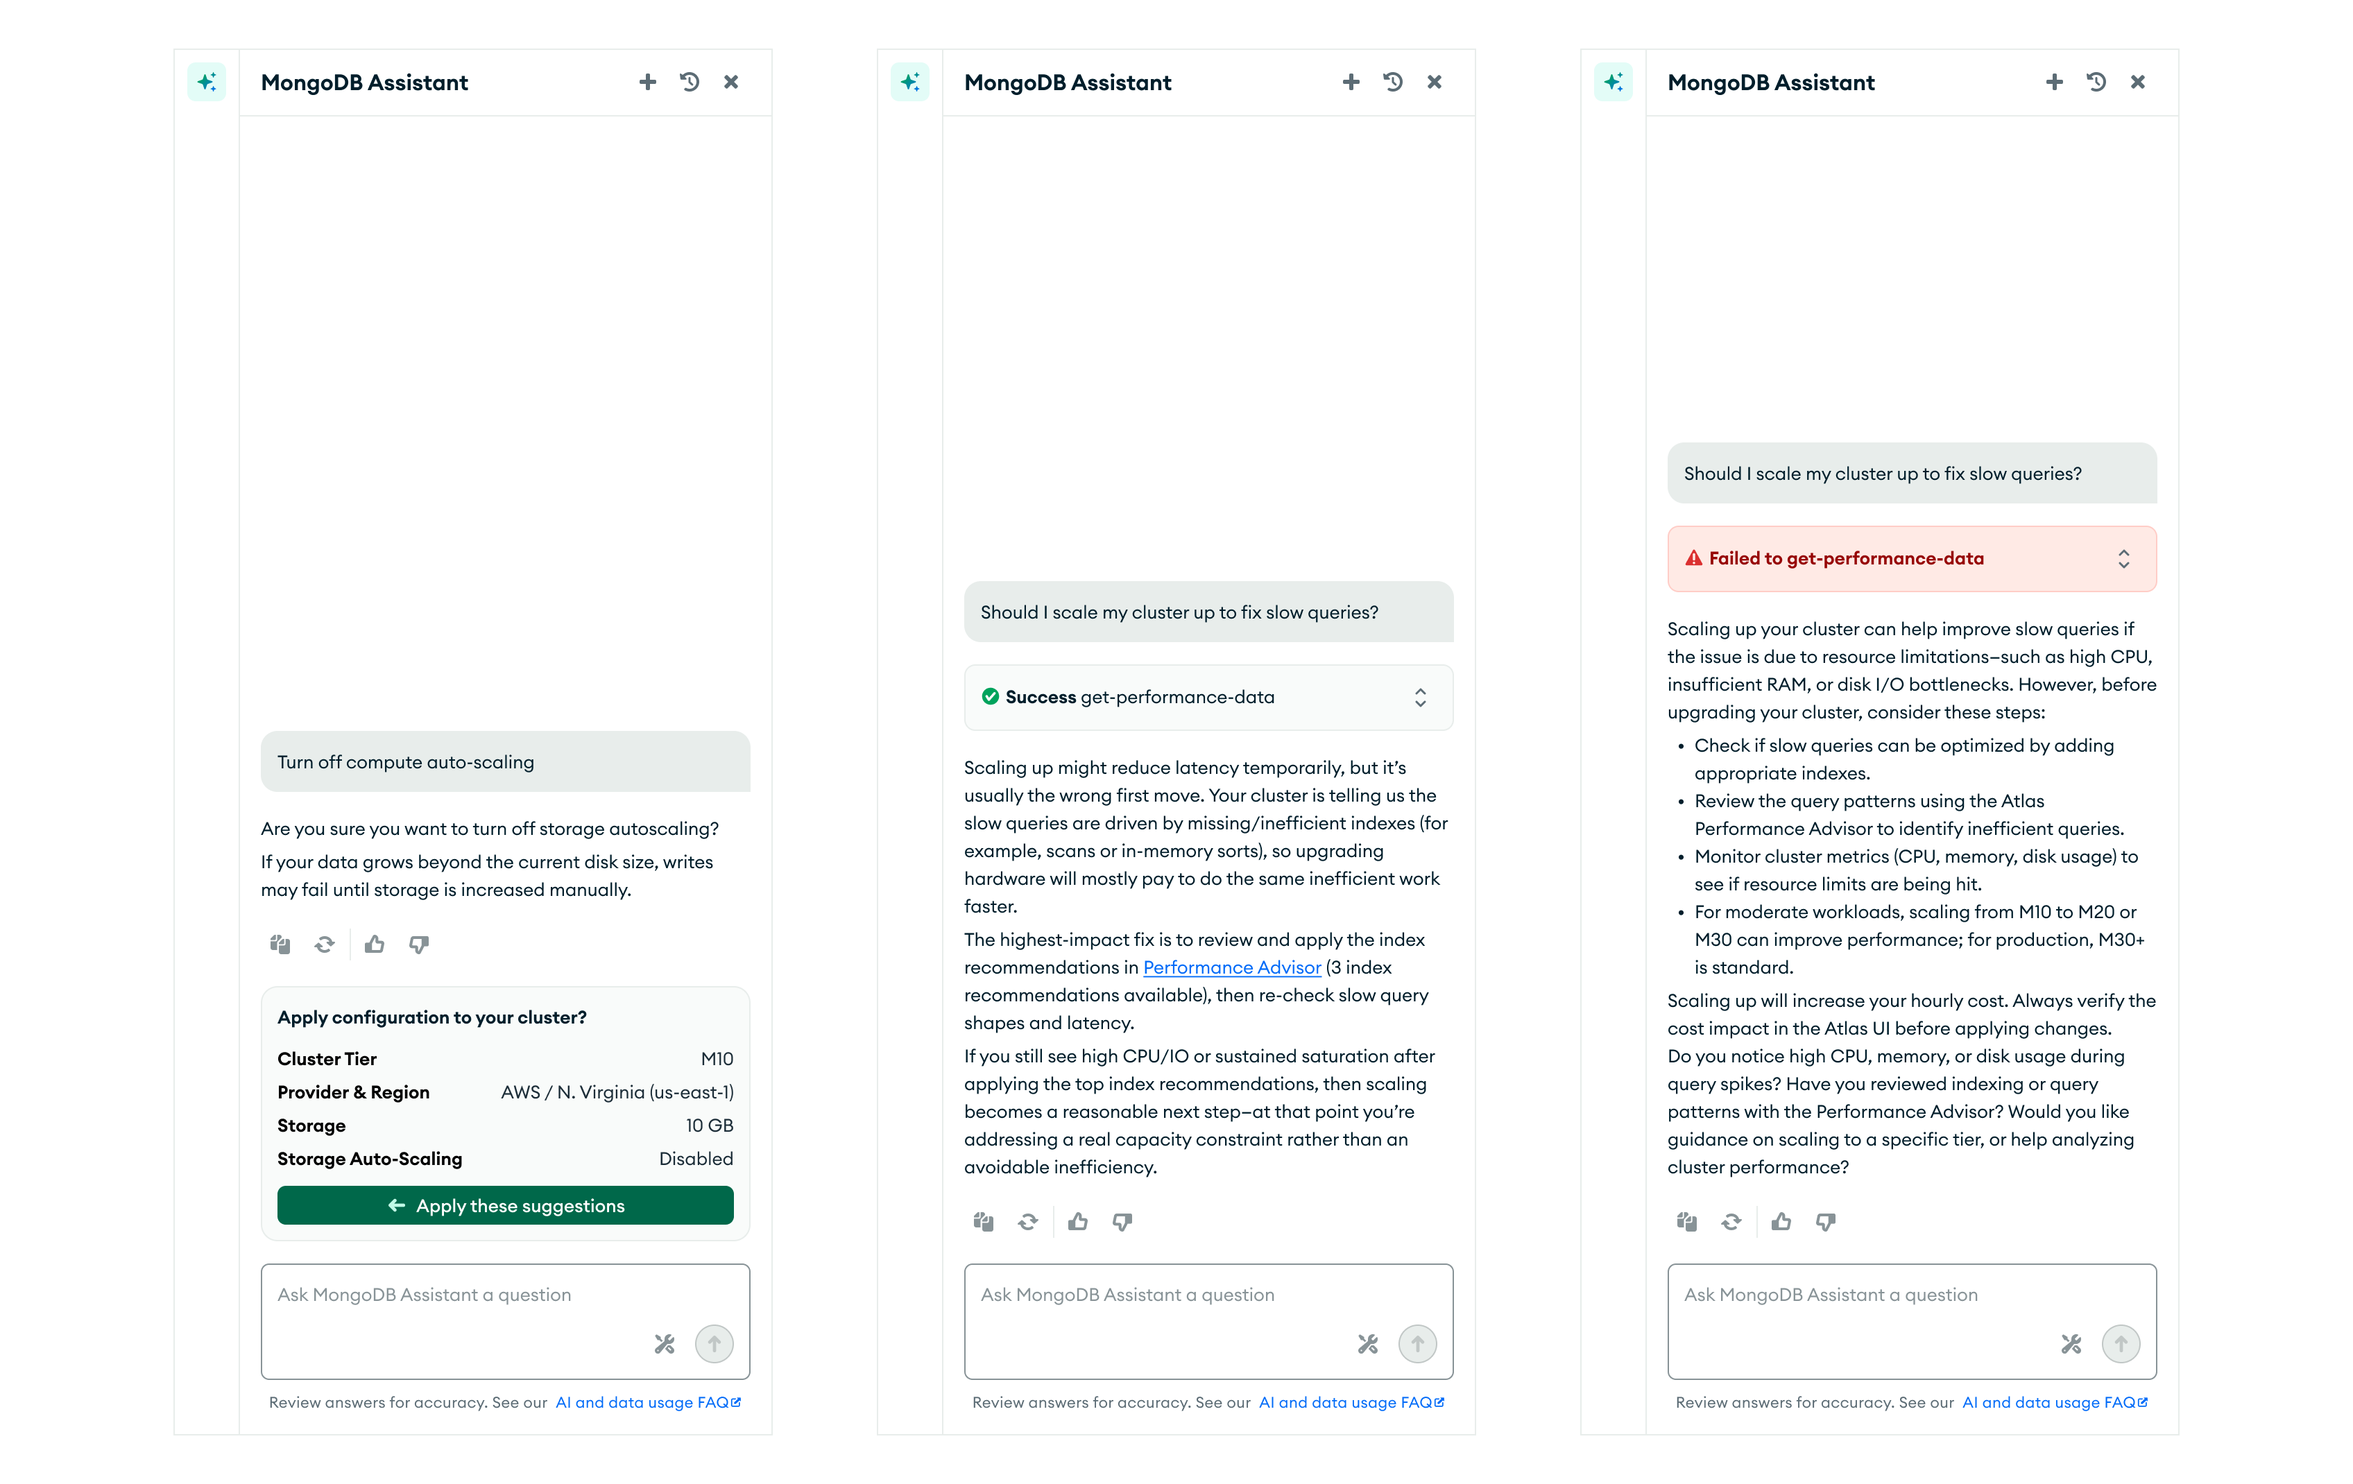
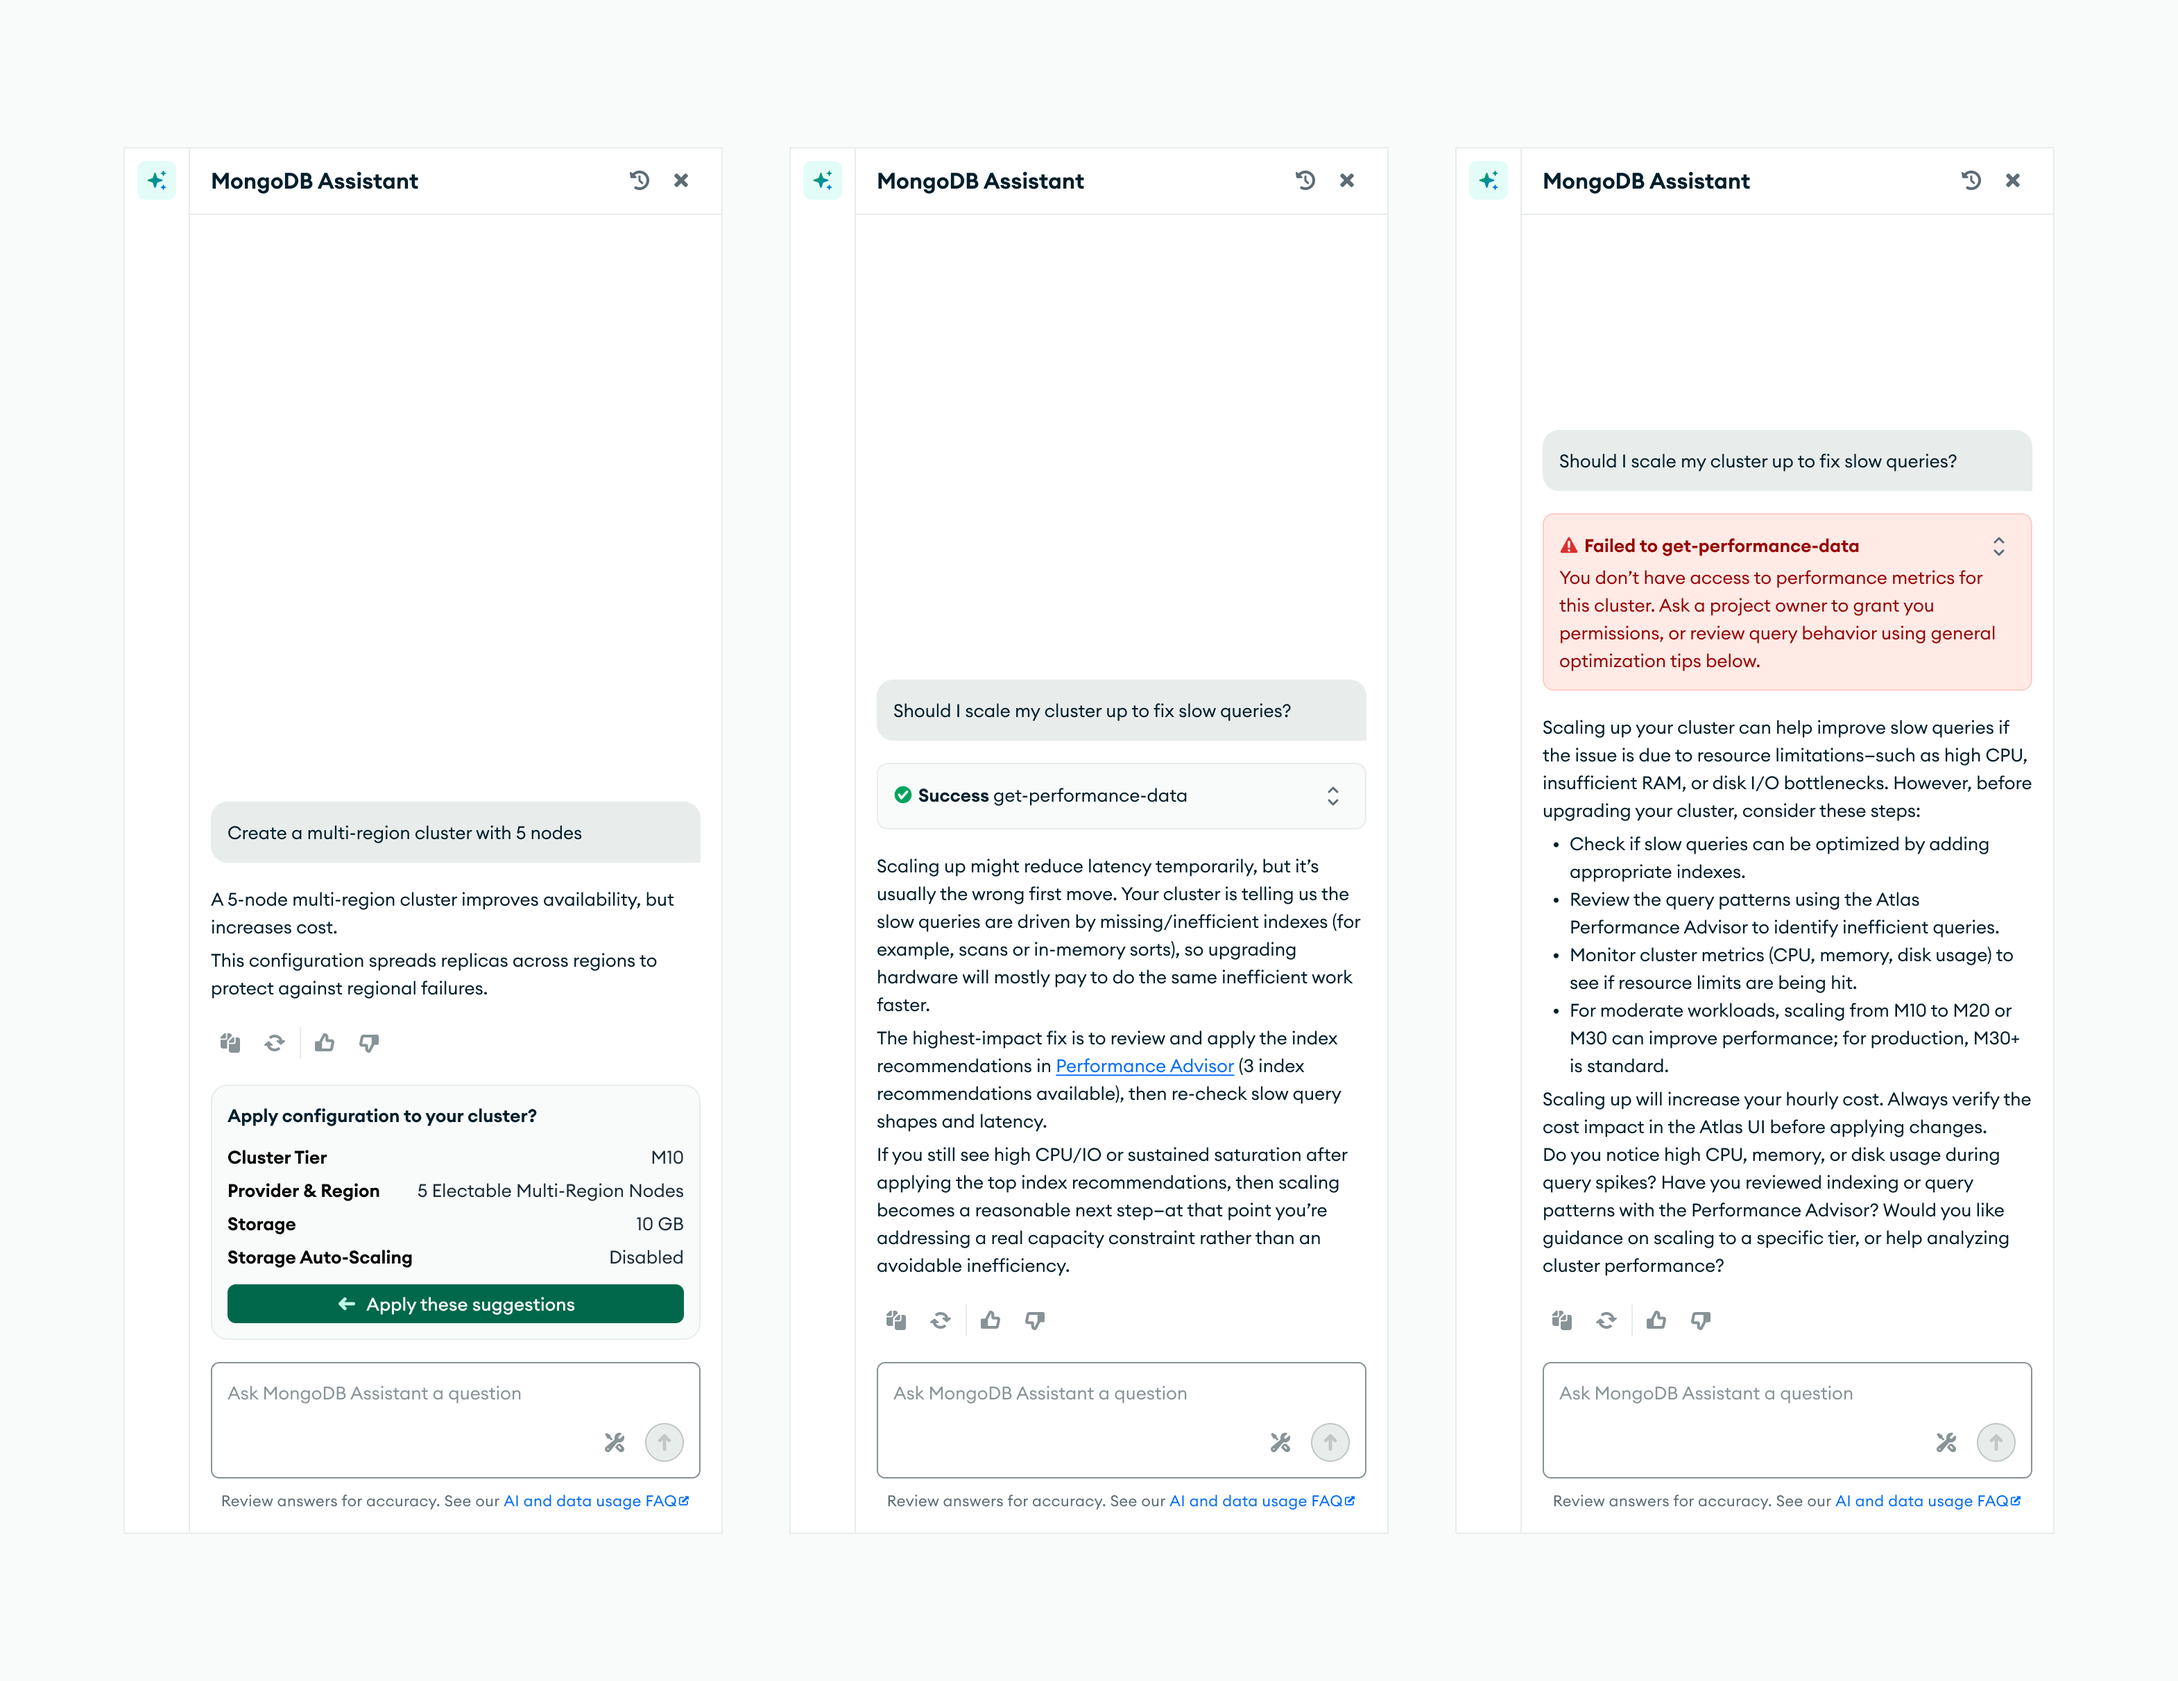
image upates, detail updates

diff --git a/ahero.html b/ahero.html
@@ -141,10 +141,13 @@
             Ahero addresses distraction by actively blocking selected websites
             and apps during focus time, based on user-defined block lists,
             schedules, or time limits. Users can schedule focus sessions and
-            organize the work they want to complete during that time. The
-            product is built around two core ideas: removing distractions at the
-            moment they matter most, and helping users direct their attention
-            toward meaningful work once those distractions are blocked.
+            organize the work they want to complete during that time.
+          </p>
+          <p>
+            The product is built around two core ideas: removing distractions at
+            the moment they matter most, and helping users direct their
+            attention toward meaningful work once those distractions are
+            blocked.
           </p>
           <div class="under_images">
             <img
@@ -176,6 +179,62 @@
               on other settings.
             </p>
           </div>
+
+          <h3>Design Challenges</h3>
+          <h4>Keeping users in focus mode</h4>
+          <p>
+            A focus session can be ended too easily, which makes it easy for
+            users to get distracted on their devices.
+          </p>
+          <p>
+            To solve this, I added an option that prevents a session from ending
+            early. The active session also syncs to the phone for a consistent
+            cross-device focus experience.
+          </p>
+          <div class="under_images">
+            <img
+              src="images/ahero/EndEarly.png"
+              class="img-responsive ahero-solution-image"
+              alt="Ahero end early setting"
+            />
+          </div>
+
+          <h4>Blocking is not one-size-fits-all</h4>
+          <p>
+            Blocking preferences are not the same for every user. For example,
+            some users want to block all of Reddit, but still allow one specific
+            subreddit they rely on for work.
+          </p>
+          <p>
+            To solve this, the block list supports an allow list. Users can
+            block an entire site and whitelist specific URLs, or block only
+            specific subdomains based on their workflow.
+          </p>
+          <div class="under_images">
+            <img
+              src="images/ahero/allowlist.png"
+              class="img-responsive ahero-solution-image"
+              alt="Ahero allow list settings"
+            />
+          </div>
+
+          <h4>Blocking settings can be too easy to disable</h4>
+          <p>
+            Another challenge is that users can quickly turn off blocking
+            settings in moments of low self-control.
+          </p>
+          <p>
+            To solve this, I added settings locks. Users can lock settings by
+            sending a friend a password, or require typing a long unlock code
+            before changes can be made.
+          </p>
+          <div class="under_images">
+            <img
+              src="images/ahero/password.png"
+              class="img-responsive ahero-solution-image"
+              alt="Ahero settings lock password flow"
+            />
+          </div>
         </div>
       </div>
 
@@ -190,17 +249,23 @@
           <p>Some of my favorite quotes from real users:</p>
           <ul id="takeaway">
             <li class="lists">
-              <i>"This app has helped me save countless hours and I am richer
-              for it."</i>
+              <i
+                >"This app has helped me save countless hours and I am richer
+                for it."</i
+              >
             </li>
             <li class="lists">
-              <i>"Thank you for all that you have done, you have tremendously
-              changed my life."</i>
+              <i
+                >"Thank you for all that you have done, you have tremendously
+                changed my life."</i
+              >
             </li>
             <li class="lists">
-              <i>"The internet is full of distractions that keep drawing you
-              back in for more. With Ahero, the effect has been
-              monumental."</i>
+              <i
+                >"The internet is full of distractions that keep drawing you
+                back in for more. With Ahero, the effect has been
+                monumental."</i
+              >
             </li>
           </ul>
         </div>

diff --git a/other-projects.html b/other-projects.html
@@ -126,9 +126,42 @@
           </p>
           <div class="under_images">
             <img
+              src="images/mongo/TipsAHP.png"
+              class="img-responsive mongo-modal-trigger"
+              alt="Tips AHP project"
+            />
+            <p class="image-label" style="margin-top: 24px">
+              Different explorations and iterations
+            </p>
+            <img
               src="images/mongo/Tips.png"
               class="img-responsive mongo-modal-trigger"
               alt="Tips project"
+            />
+          </div>
+
+          <h3>MongoDB AI Assistant</h3>
+          <p>
+            An ongoing project focused on expanding the MongoDB AI Assistant to
+            help users create clusters and receive more contextual guidance,
+            including performance advice delivered through targeted tool calls.
+          </p>
+          <div class="under_images">
+            <p class="image-label">
+              The AI assistant can help users configure their cluster.
+            </p>
+            <img
+              src="images/mongo/CBAIFull.png"
+              class="img-responsive mongo-modal-trigger"
+              alt="CBAI full project"
+            />
+            <p class="image-label" style="margin-top: 24px">
+              UI states for complex cluster configurations and tool calls.
+            </p>
+            <img
+              src="images/mongo/CBAI.png"
+              class="img-responsive mongo-modal-trigger"
+              alt="CBAI project"
             />
           </div>
 
@@ -145,20 +178,6 @@
               src="images/mongo/Churn.png"
               class="img-responsive mongo-modal-trigger"
               alt="Churn project"
-            />
-          </div>
-
-          <h3>MongoDB AI Assistant</h3>
-          <p>
-            Designing how the MongoDB AI Assistant surfaces performance insights
-            by referencing data through tool calls to the Performance API. This
-            project is in progress.
-          </p>
-          <div class="under_images">
-            <img
-              src="images/mongo/CBAI.png"
-              class="img-responsive mongo-modal-trigger"
-              alt="CBAI project"
             />
           </div>
 

diff --git a/mongo.html b/mongo.html
@@ -132,7 +132,7 @@
           <div class="under_images">
             <p class="image-label">
               Before: Creating a cluster required selecting many advanced
-              configurations
+              configurations.
             </p>
             <img
               src="images/mongo/Cluster Builder.png"
